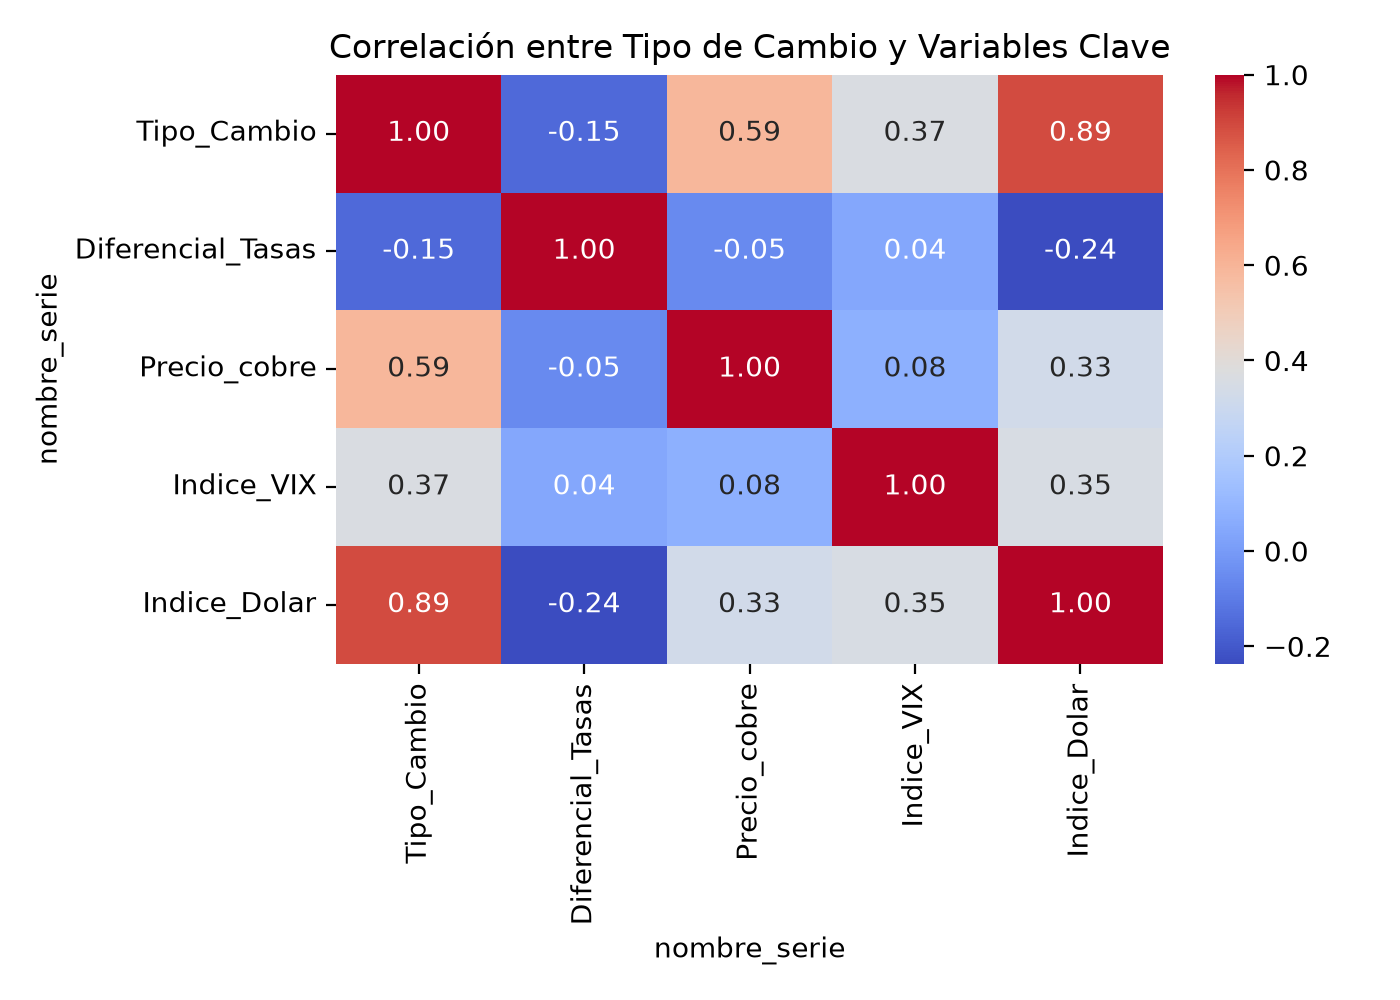
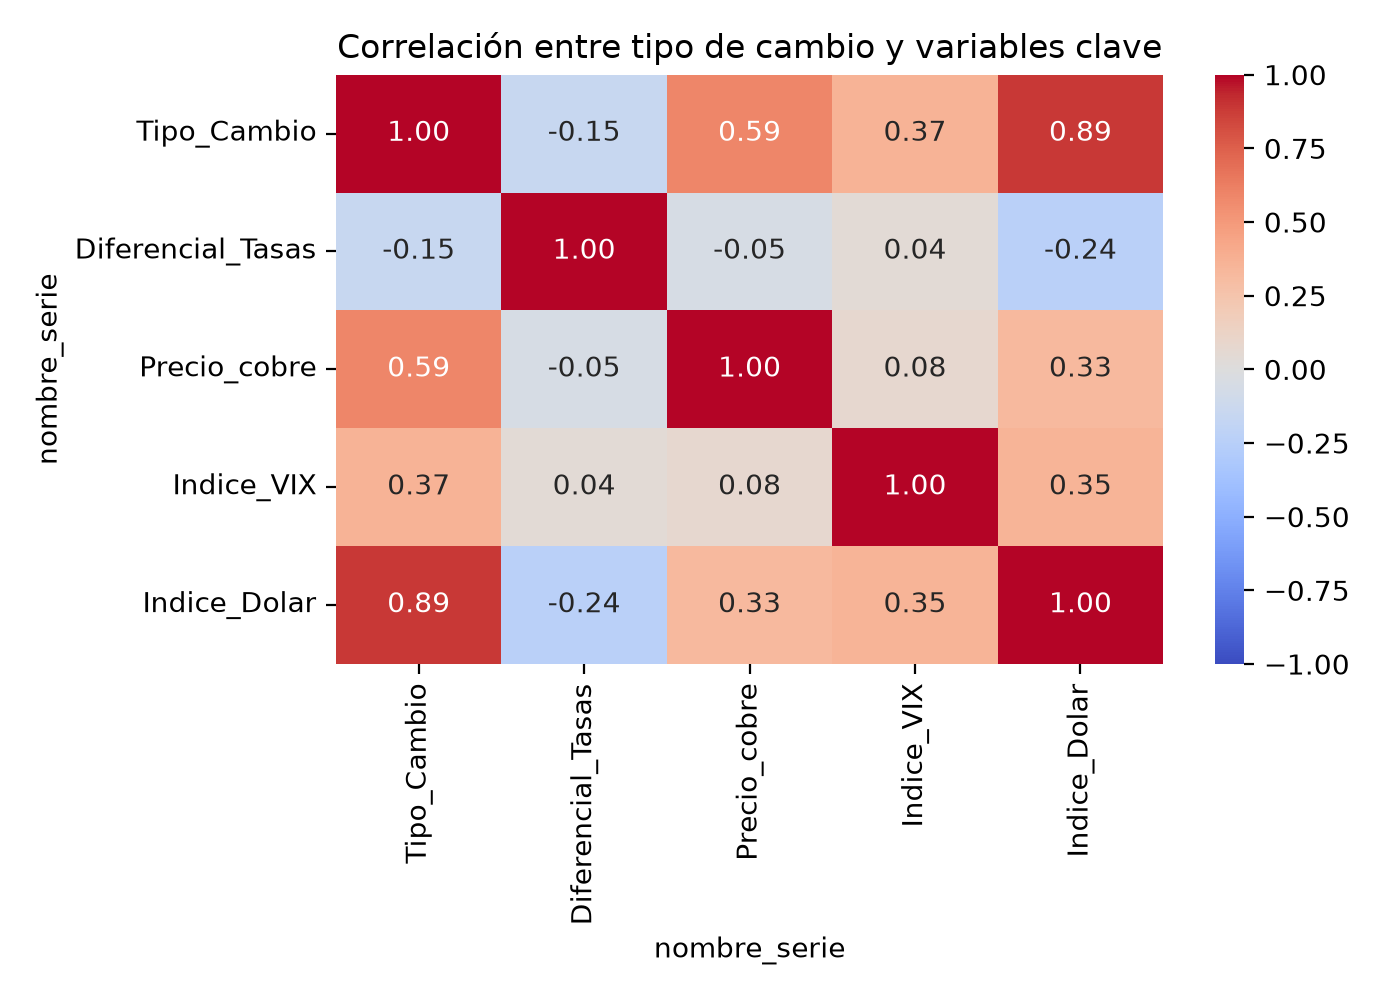
Analisis de coyuntura: graficos en nivel y variacion interanual

diff --git a/src/analisis_coyuntura.py b/src/analisis_coyuntura.py
@@ -1,3 +1,7 @@
+# ==========================================
+# src/analisis_coyuntura.py  -  Parte de Mica
+# Análisis de coyuntura inicial (Hito 2)
+# ==========================================
 import sqlite3
 import pandas as pd
 import matplotlib.pyplot as plt
@@ -5,40 +9,100 @@ import seaborn as sns
 
 conn = sqlite3.connect("coyuntura.db")
 
+# ---------- 1. Datos desde la vista ----------
 datos_sql = pd.read_sql_query(
-    "SELECT mes AS fecha, nombre_serie, valor FROM vista_monitor", conn
+    "SELECT mes AS fecha, nombre_serie, valor, var_interanual_pct, promedio_movil_3m "
+    "FROM vista_monitor", conn
 )
 datos_sql["fecha"] = pd.to_datetime(datos_sql["fecha"])
-df_analisis = datos_sql.pivot(index="fecha", columns="nombre_serie", values="valor")
-df_analisis["Diferencial_Tasas"] = df_analisis["TPM"] - df_analisis["Tasa_FED_EEUU"]
 
-# Gráfico 1: Tipo de cambio vs cobre
+# Formato ancho: una columna por serie
+niveles = datos_sql.pivot(index="fecha", columns="nombre_serie", values="valor")
+var_ia  = datos_sql.pivot(index="fecha", columns="nombre_serie", values="var_interanual_pct")
+pm3     = datos_sql.pivot(index="fecha", columns="nombre_serie", values="promedio_movil_3m")
+
+# Diferencial de tasas (Chile - EE.UU.), en puntos porcentuales
+niveles["Diferencial_Tasas"] = niveles["TPM"] - niveles["Tasa_FED_EEUU"]
+
+# ---------- Gráfico 1: Tipo de cambio vs cobre ----------
 fig, ax1 = plt.subplots(figsize=(10, 5))
-ax1.plot(df_analisis.index, df_analisis["Tipo_Cambio"], color="blue")
+ax1.plot(niveles.index, niveles["Tipo_Cambio"], color="blue", label="Tipo de cambio")
 ax1.set_ylabel("CLP / USD", color="blue")
 ax2 = ax1.twinx()
-ax2.plot(df_analisis.index, df_analisis["Precio_cobre"], color="orange", linestyle="--")
+ax2.plot(niveles.index, niveles["Precio_cobre"], color="orange", linestyle="--", label="Cobre")
 ax2.set_ylabel("Cobre (USD/lb)", color="orange")
-plt.title("Evolución Tipo de Cambio vs Precio del Cobre")
-ax1.grid(True)
+plt.title("Tipo de cambio vs precio del cobre")
+ax1.grid(True, alpha=0.3)
 plt.tight_layout()
 plt.savefig("tc_cobre.png", dpi=200)
 plt.show()
 
-# Gráfico 2: Matriz de correlaciones
+# ---------- Gráfico 2: Matriz de correlaciones ----------
 variables = ["Tipo_Cambio", "Diferencial_Tasas", "Precio_cobre", "Indice_VIX", "Indice_Dolar"]
-matriz = df_analisis[variables].corr()
-print(matriz.round(2))
+matriz = niveles[variables].corr()
+
 plt.figure(figsize=(7, 5))
-sns.heatmap(matriz, annot=True, cmap="coolwarm", fmt=".2f")
-plt.title("Correlación entre Tipo de Cambio y Variables Clave")
+sns.heatmap(matriz, annot=True, cmap="coolwarm", fmt=".2f", vmin=-1, vmax=1)
+plt.title("Correlación entre tipo de cambio y variables clave")
 plt.tight_layout()
 plt.savefig("correlaciones.png", dpi=200)
 plt.show()
 
-# Dato de septiembre 2026
-print(pd.read_sql_query(
-    "SELECT mes, valor, var_interanual_pct FROM vista_monitor "
-    "WHERE nombre_serie = 'Tipo_Cambio' AND mes = '2026-09'", conn
-))
+# ---------- Gráfico 3: Tipo de cambio en nivel y variación interanual ----------
+desde = "2022-01-01"   # últimos años, para que se vea la coyuntura
+tc   = niveles.loc[desde:, "Tipo_Cambio"]
+tc3  = pm3.loc[desde:, "Tipo_Cambio"]
+tcia = var_ia.loc[desde:, "Tipo_Cambio"]
+
+fig, (a1, a2) = plt.subplots(2, 1, figsize=(10, 6), sharex=True)
+a1.plot(tc.index, tc, color="blue", label="Tipo de cambio")
+a1.plot(tc3.index, tc3, color="gray", linestyle="--", label="Promedio móvil 3 meses")
+a1.set_ylabel("CLP / USD")
+a1.legend()
+a1.grid(True, alpha=0.3)
+a1.set_title("Tipo de cambio: nivel y variación interanual")
+
+colores = ["red" if v > 0 else "green" for v in tcia.fillna(0)]
+a2.bar(tcia.index, tcia, width=20, color=colores)
+a2.axhline(0, color="black", linewidth=0.8)
+a2.set_ylabel("Var. interanual (%)")
+a2.grid(True, alpha=0.3)
+plt.tight_layout()
+plt.savefig("tc_nivel_variacion.png", dpi=200)
+plt.show()
+
+# ---------- Gráfico 4: Indicadores de contexto ----------
+fig, ejes = plt.subplots(2, 2, figsize=(10, 6), sharex=True)
+paneles = [
+    ("Precio_cobre", var_ia, "Cobre (var. interanual %)"),
+    ("Indice_Dolar", var_ia, "Índice dólar (var. interanual %)"),
+    ("Indice_VIX", niveles, "VIX (nivel)"),
+    ("Diferencial_Tasas", niveles, "Diferencial TPM - FED (pp)"),
+]
+for ax, (serie, tabla, titulo) in zip(ejes.flat, paneles):
+    datos = tabla.loc[desde:, serie]
+    ax.plot(datos.index, datos, color="teal")
+    ax.axhline(0, color="black", linewidth=0.6)
+    ax.set_title(titulo, fontsize=10)
+    ax.grid(True, alpha=0.3)
+plt.tight_layout()
+plt.savefig("contexto.png", dpi=200)
+plt.show()
+
+# ---------- Números para el informe ----------
+print("\n=== CORRELACIONES CON EL TIPO DE CAMBIO ===")
+print(matriz["Tipo_Cambio"].round(2))
+
+print("\n=== TIPO DE CAMBIO, ÚLTIMOS 6 MESES ===")
+ultimos = pd.DataFrame({
+    "nivel": niveles["Tipo_Cambio"],
+    "prom_movil_3m": pm3["Tipo_Cambio"],
+    "var_interanual_%": var_ia["Tipo_Cambio"],
+}).dropna(subset=["nivel"]).tail(6).round(1)
+print(ultimos)
+
+print("\n=== CONTEXTO, ÚLTIMOS 6 MESES ===")
+print(niveles[["Precio_cobre", "Indice_Dolar", "Indice_VIX", "TPM", "Tasa_FED_EEUU", "Diferencial_Tasas"]]
+      .dropna(how="all").tail(6).round(2))
+
 conn.close()
